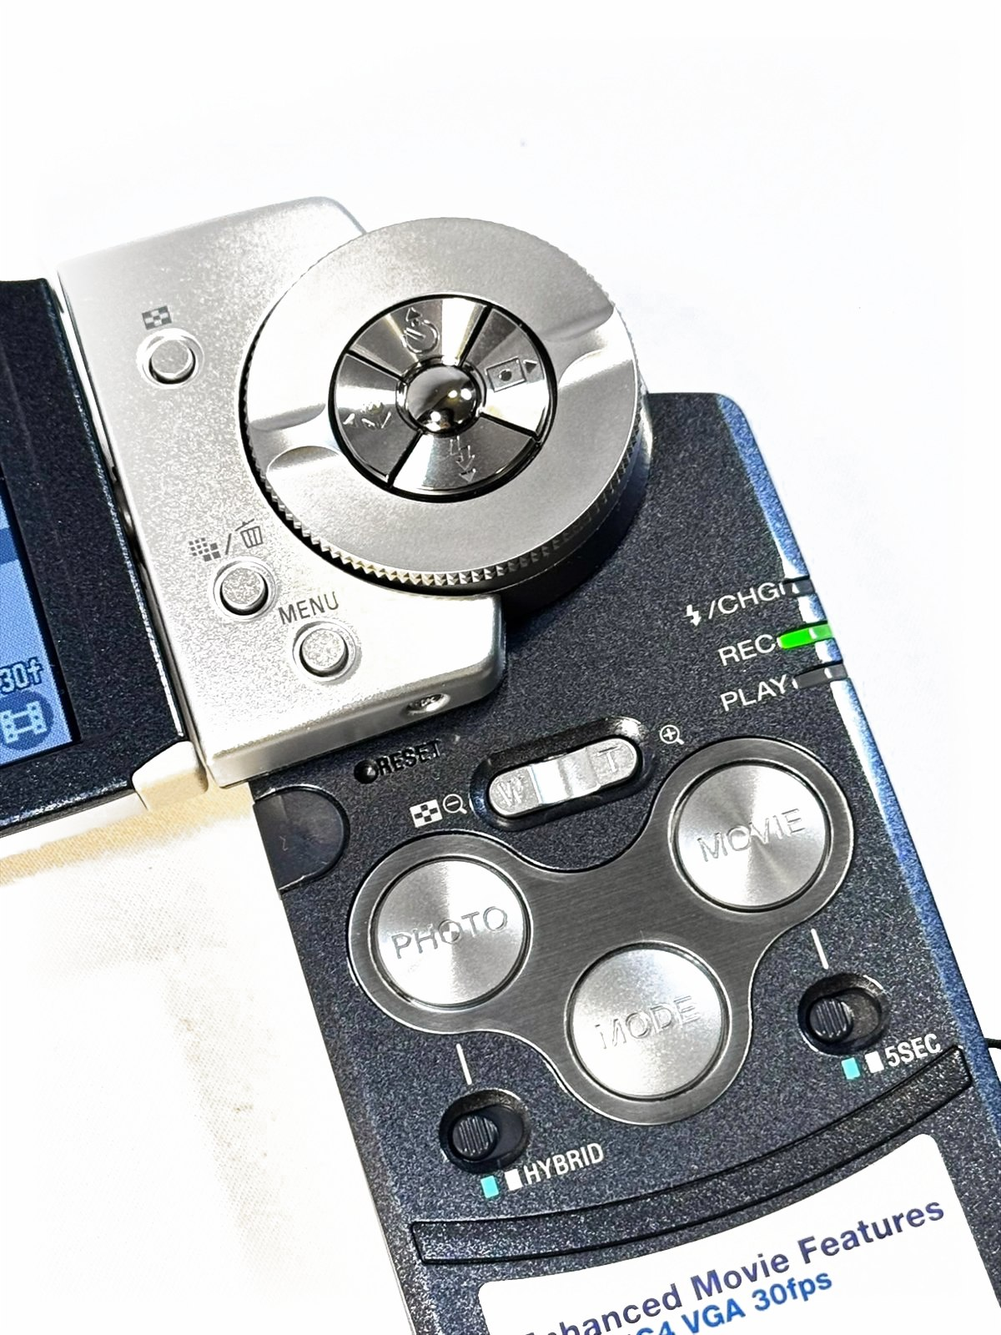
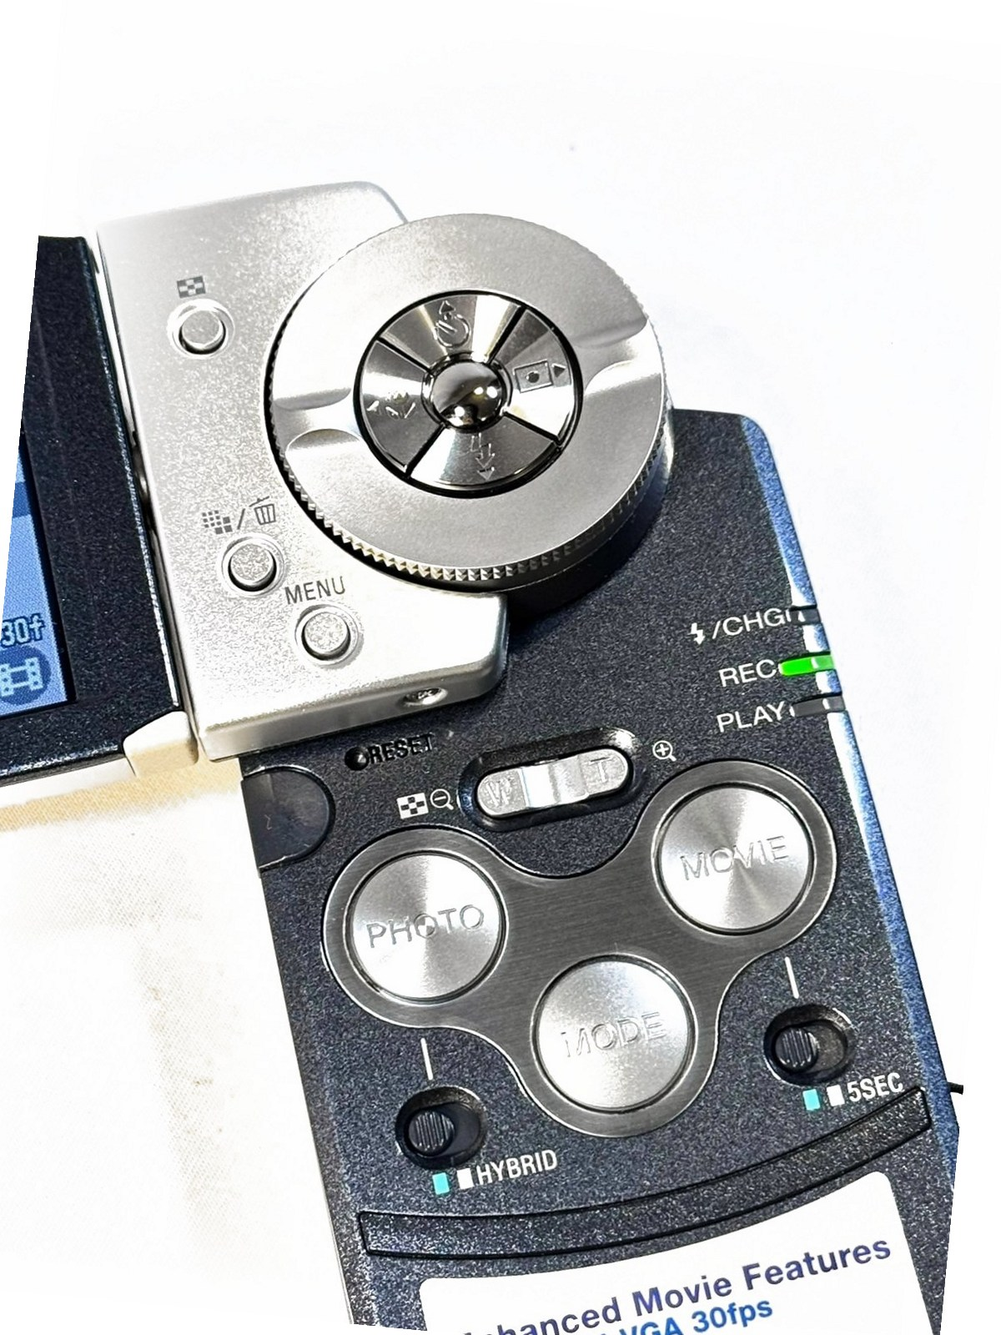
Listing photos: centred card crops, straightened shots, TRV140E sold
- Archive cards use centred card versions (tools/card-crop.ps1) for the two Coolpix, Contax, DSC-M2 (both), Mavica, TRV140E, TRV218E, Walkman, W120 and HC-V110
- Straightened: Contax front, W120 front, HC-V110 lens (also less yellow), all eight sold DSC-M2 photos (tools/deskew.ps1)
- Photo order: Coolpix 2500 like the 3500, Walkman and W120 reordered
- TRV140E marked sold

diff --git a/assets/js/data.js b/assets/js/data.js
@@ -21,8 +21,8 @@
     { id: 'IA-0057', name: 'Sony GV-D900E Video Walkman', brand: 'Sony', type: 'accessories', year: 1997, country: 'Japan', format: 'MiniDV · PAL', sensor: '—', mp: 0, price: 1000, status: 'sold', grade: 'B', added: '2026-11-18',
       links: { ebay: '', vinted: '' },
       art: { kind: 'tape' },
-      photos: { dir: 'assets/img/ia-0057', list: [
-        ['with-charger', 'With its AC-V700 charger', 1600, 1067], ['closed', 'Closed', 1200, 1600], ['screen-playback', 'Playing back a MiniDV tape', 1200, 1600],
+      photos: { dir: 'assets/img/ia-0057', card: [['closed-card', 'Closed', 1000, 1250], ['screen-playback-card', 'Playing back a MiniDV tape', 1000, 1250]], list: [
+        ['closed', 'Closed', 1200, 1600], ['screen-playback', 'Playing back a MiniDV tape', 1200, 1600], ['with-charger', 'With its AC-V700 charger', 1600, 1067],
         ['open', 'Open, screen on', 1600, 1065], ['controls', 'Transport controls', 1600, 1065], ['controls-detail', 'Controls close-up', 1600, 1065],
         ['cassette-bay', 'Cassette bay open', 1600, 1065], ['ports', 'S-Video, AV and LANC ports', 1600, 1065], ['rear', 'Rear, battery bay and DV in / out', 1600, 1065],
         ['side-battery', 'Battery door open', 1600, 1065], ['underside', 'Underside, model plate', 1600, 1065], ['with-charger-on', 'Powered from the charger', 1600, 1065],
@@ -38,10 +38,10 @@
         ['In / out', 'DV in / out · S-Video · AV · LANC · Laser Link'], ['Power', 'InfoLITHIUM L series · DC 7.2 V'], ['Charger', 'Sony AC-V700'], ['Made in', 'Japan']],
       samples: [] },
 
-    { id: 'IA-0056', name: 'Sony Handycam DCR-TRV140E', brand: 'Sony', type: 'camcorders', year: 2002, country: 'Japan', format: 'Digital8 · PAL', sensor: 'CCD', mp: 0.46, price: 149, status: 'available', grade: 'B', added: '2026-11-18',
+    { id: 'IA-0056', name: 'Sony Handycam DCR-TRV140E', brand: 'Sony', type: 'camcorders', year: 2002, country: 'Japan', format: 'Digital8 · PAL', sensor: 'CCD', mp: 0.46, price: 149, status: 'sold', grade: 'B', added: '2026-11-18',
       links: { ebay: '', vinted: '' }, // ← paste this camcorder's eBay / Vinted listing URLs
       art: { kind: 'camcorder', tone: 'silver', fmt: 'D8', zoom: 20, label: 'TRV140E' },
-      photos: { dir: 'assets/img/ia-0056', list: [
+      photos: { dir: 'assets/img/ia-0056', card: [['front-card', 'Front three-quarter', 1000, 1250], ['grip-side-card', 'Grip side and hand strap', 1000, 1250]], list: [
         ['front', 'Front three-quarter', 1200, 1600], ['side-badges', 'Digital8 and Super NightShot badges', 1200, 1600], ['lens', 'Sony video lens 20×, f = 3.6–72 mm 1:1.4', 1200, 1600],
         ['screen-open', 'LCD open, NightShot on', 1200, 1600], ['rear', 'Rear, viewfinder and battery bay', 1200, 1600], ['grip-side', 'Grip side and hand strap', 1200, 1600],
         ['tape-open', 'Tape door open', 1200, 1600], ['viewfinder', 'Through the viewfinder: 279 min, NightShot', 1200, 1600], ['kit', 'With bag, remote, batteries and adapter', 1200, 1600]
@@ -95,7 +95,7 @@
     { id: 'IA-0053', name: 'Sony Mavica MVC-FD81', brand: 'Sony', type: 'compacts', year: 2000, country: 'Japan', format: '3.5" floppy disk', sensor: 'Progressive CCD · 0.8 MP', mp: 0.8, price: 149, status: 'available', grade: 'B', added: '2026-11-18',
       links: { ebay: '', vinted: '' }, // ← paste this camera's eBay / Vinted listing URLs
       art: { kind: 'compact', style: 'grip', tone: 'silver', mp: '0.8', zoom: 3 },
-      photos: { dir: 'assets/img/ia-0053', list: [
+      photos: { dir: 'assets/img/ia-0053', card: [['front-card', 'Front, lens cap off', 1000, 1250], ['front-cap-card', 'Front, cap on, with strap', 1000, 1250]], list: [
         ['front', 'Front, lens cap off', 1200, 1600], ['front-cap', 'Front, cap on, with strap', 1200, 1600], ['back', 'Back, controls', 1200, 1600],
         ['lens-detail', 'Sony video lens 3× detail', 1200, 1600], ['box', 'With its original box and battery', 1200, 1600]
       ] },
@@ -112,7 +112,7 @@
     { id: 'IA-0052', name: 'Sony Handycam CCD-TRV218E', brand: 'Sony', type: 'camcorders', year: 2003, country: 'Japan', format: 'Hi8', sensor: 'CCD', mp: 0.46, price: 129, status: 'available', grade: 'C', added: '2026-11-18',
       links: { ebay: '', vinted: '' }, // ← paste this camcorder's eBay / Vinted listing URLs
       art: { kind: 'camcorder', tone: 'silver', fmt: 'Hi8', zoom: 20, label: 'TRV218E' },
-      photos: { dir: 'assets/img/ia-0052', list: [
+      photos: { dir: 'assets/img/ia-0052', card: [['side-card', 'Side, NightShot and Hi8 badges', 1000, 1250], ['front-card', 'Front, 20× Sony video lens', 1000, 1250]], list: [
         ['side', 'Side, NightShot and Hi8 badges', 1311, 1600], ['front', 'Front, 20× Sony video lens', 1200, 1600], ['grip-side', 'Grip side and power switch', 1200, 1600],
         ['rear', 'Rear, viewfinder and InfoLITHIUM battery', 1200, 1600], ['screen', 'LCD on, with its worn coating', 1200, 1600], ['screen-angle', 'LCD and tape controls', 1200, 1600],
         ['viewfinder', 'Through the viewfinder: Hi8 SP, clear', 1200, 1600], ['with-box', 'With its box, adapter, AV cable and strap', 1200, 1600]
@@ -130,9 +130,9 @@
     { id: 'IA-0051', name: 'Sony Cyber-shot DSC-W120', brand: 'Sony', type: 'compacts', year: 2008, country: 'Japan', format: 'Memory Stick Duo', sensor: 'CCD 1/2.5" · 7.2 MP', mp: 7.2, price: 119, status: 'sold', grade: 'B', added: '2026-11-18',
       links: { ebay: '', vinted: '' }, // ← paste this camera's eBay / Vinted listing URLs
       art: { kind: 'compact', style: 'slim', tone: 'graphite', mp: '7.2', zoom: 4 },
-      photos: { dir: 'assets/img/ia-0051', list: [
-        ['front', 'Front, lens closed', 1200, 1600], ['lens-out', 'Front, lens out', 1200, 1600], ['angle', 'Three-quarter view', 1200, 1600],
-        ['back', 'Back, screen on', 1200, 1600], ['kit', 'With battery and charger', 1200, 1600]
+      photos: { dir: 'assets/img/ia-0051', card: [['lens-out-card', 'Front, lens out', 1000, 1250], ['back-card', 'Back, screen on', 1000, 1250]], list: [
+        ['lens-out', 'Front, lens out', 1200, 1600], ['back', 'Back, screen on', 1200, 1600], ['front', 'Front, lens closed', 1200, 1600],
+        ['angle', 'Three-quarter view', 1200, 1600], ['kit', 'With battery and charger', 1200, 1600]
       ] },
       story: 'The 2008 party camera in black: a 4× Carl Zeiss zoom, Smile Shutter that fires when people grin, and a flash bright enough to flatten a whole room.',
       storySub: 'The W120 is peak late-2000s Cyber-shot: 7.2 megapixels from a CCD, Super SteadyShot, ISO up to 3200 for grainy night shots, and a real optical viewfinder next to the screen. Files are crisp in daylight and turn gloriously noisy indoors.',
@@ -147,7 +147,7 @@
     { id: 'IA-0050', name: 'Sony Cyber-shot DSC-M2', brand: 'Sony', type: 'compacts', year: 2005, country: 'Japan', format: 'Memory Stick PRO Duo', sensor: 'CCD · 5.1 MP', mp: 5.1, price: 300, status: 'available', grade: 'B', added: '2026-11-18',
       links: { ebay: '', vinted: '' }, // ← paste this camera's eBay / Vinted listing URLs
       art: { kind: 'compact', style: 'slim', tone: 'silver', mp: '5.1', zoom: 3 },
-      photos: { dir: 'assets/img/ia-0050', list: [
+      photos: { dir: 'assets/img/ia-0050', card: [['front-card', 'Front, closed', 1000, 1250], ['back-screen-on-card', 'Back, screen on, in the cradle', 1000, 1250]], list: [
         ['front', 'Front, closed', 1200, 1600], ['back-screen-on', 'Back, screen on, in the cradle', 1200, 1600], ['swivel-open', 'Screen swung open', 1200, 1600],
         ['lens-detail', 'Carl Zeiss Vario-Tessar detail', 1200, 1600], ['controls', 'Jog dial and PHOTO / MOVIE buttons', 1200, 1600], ['back-controls', 'Back, controls', 1200, 1600],
         ['side', 'Side, power and DC in', 1200, 1600], ['underside', 'Underside, serial label', 1200, 1600], ['in-cradle', 'In the cradle', 1200, 1600], ['cradle', 'Cradle', 1200, 1600]
@@ -165,9 +165,10 @@
     { id: 'IA-0049', name: 'Nikon Coolpix 2500', brand: 'Nikon', type: 'compacts', year: 2002, country: 'Japan', format: 'CompactFlash', sensor: 'CCD · 2 MP', mp: 2, price: 149, status: 'available', grade: 'A', added: '2026-11-18',
       links: { ebay: '', vinted: '' }, // ← paste this camera's eBay / Vinted listing URLs
       art: { kind: 'compact', style: 'compact', tone: 'blue', mp: '2.0', zoom: 3 },
-      photos: { dir: 'assets/img/ia-0049', list: [
-        ['front', 'Front, lens turned out', 1200, 1600], ['front-vertical', 'Front, upright', 1200, 1600], ['lens-detail', 'Zoom-Nikkor detail', 1200, 1600],
-        ['back-screen-on', 'Back, start-up screen', 1200, 1600], ['back-vertical', 'Back, upright', 1200, 1600], ['box', 'Box and accessories', 1200, 1600]
+      photos: { dir: 'assets/img/ia-0049', card: [['front-vertical-card', 'Front, lens open', 1000, 1250], ['back-vertical-card', 'Upright, lens turned away', 1000, 1250]], list: [
+        // same order as the Coolpix 3500: upright with lens open, upright with lens turned away, back screen on, lens detail, lens swivelled, box
+        ['front-vertical', 'Front, lens open', 1200, 1600], ['back-vertical', 'Upright, lens turned away', 1200, 1600], ['back-screen-on', 'Back, start-up screen', 1200, 1600],
+        ['lens-detail', 'Zoom-Nikkor detail', 1200, 1600], ['front', 'Lens swivelled', 1200, 1600], ['box', 'Box and accessories', 1200, 1600]
       ] },
       story: 'The swivel Coolpix that started it: lens and flash sit in a blue block that turns inside a silver frame. Point it forward, down at the table or back at yourself.',
       storySub: 'Nikon\'s 2002 pocket camera for people who had never owned a digital one: 2 megapixels, a 3× Zoom-Nikkor and twelve scene modes. Closed, the lens hides inside the body, so nothing sticks out. The files are small, soft and very 2002, with that cool Nikon colour.',
@@ -182,7 +183,7 @@
     { id: 'IA-0048', name: 'Panasonic HC-V110', brand: 'Panasonic', type: 'camcorders', year: 2013, country: 'Japan', format: 'SD · AVCHD', sensor: 'MOS 1/5.8"', mp: 1.5, price: 149, status: 'available', grade: 'A', added: '2026-11-17',
       links: { ebay: '', vinted: '' }, // ← paste this camcorder's eBay / Vinted listing URLs
       art: { kind: 'camcorder', tone: 'black', fmt: 'HD', zoom: 38, label: 'HC-V110' },
-      photos: { dir: 'assets/img/ia-0048', list: [
+      photos: { dir: 'assets/img/ia-0048', card: [['side-card', 'Side, lens and badges', 1000, 1250], ['lens-detail-card', 'Lens, f = 2.35–89.3 mm', 1000, 1250]], list: [
         ['side', 'Side, lens and badges', 1200, 1600], ['lens-detail', 'Lens, f = 2.35–89.3 mm', 1200, 1600], ['screen-open', 'Screen open, ports', 1200, 1600],
         ['grip-side', 'Grip side and strap', 1200, 1600], ['rear', 'Rear, battery and REC', 1200, 1600], ['box', 'Box and battery', 1200, 1600]
       ] },
@@ -199,7 +200,7 @@
     { id: 'IA-0047', name: 'Sony Cyber-shot DSC-M2', brand: 'Sony', type: 'compacts', year: 2005, country: 'Japan', format: 'Memory Stick PRO Duo', sensor: 'CCD · 5.1 MP', mp: 5.1, price: 600, status: 'sold', grade: 'A+', added: '2026-11-17',
       links: { ebay: '', vinted: '' }, // ← paste this camera's eBay / Vinted listing URLs
       art: { kind: 'compact', style: 'slim', tone: 'silver', mp: '5.1', zoom: 3 },
-      photos: { dir: 'assets/img/ia-0047', list: [
+      photos: { dir: 'assets/img/ia-0047', card: [['swivel-open-card', 'Screen swung open', 1000, 1250], ['back-screen-on-card', 'Back, screen on', 1000, 1250]], list: [
         ['swivel-open', 'Screen swung open', 1200, 1600], ['back-screen-on', 'Back, screen on', 1200, 1600], ['front-cradle', 'Front, in the cradle', 1200, 1600],
         ['lens-detail', 'Carl Zeiss Vario-Tessar detail', 1200, 1600], ['controls', 'Controls and jog dial', 1200, 1600], ['cradle-front', 'Cradle', 1200, 1600],
         ['cradle-back', 'Cradle ports', 1200, 1600], ['box', 'Box and everything inside', 1200, 1600]
@@ -217,7 +218,7 @@
     { id: 'IA-0046', name: 'Contax i4R', brand: 'Contax', type: 'compacts', year: 2004, country: 'Japan', format: 'SD', sensor: 'CCD 1/2.5" · 4 MP', mp: 4, price: 390, status: 'available', grade: 'B', added: '2026-11-17',
       links: { ebay: '', vinted: '' }, // ← paste this camera's eBay / Vinted listing URLs
       art: { kind: 'compact', style: 'slim', tone: 'silver', mp: '4.0', zoom: 1 },
-      photos: { dir: 'assets/img/ia-0046', list: [
+      photos: { dir: 'assets/img/ia-0046', card: [['front-open-card', 'Front, lens uncovered', 1000, 1250], ['screen-on-card', 'Back, screen on', 1000, 1250]], list: [
         ['front-open', 'Front, lens uncovered', 1200, 1600], ['screen-on', 'Back, screen on', 1200, 1600], ['front-closed', 'Front, flash block closed', 1200, 1600],
         ['back', 'Back, controls', 1200, 1600], ['lens-detail', 'Tessar T* detail', 1200, 1600], ['side', 'Side', 1200, 1600],
         ['underside', 'Underside', 1200, 1600], ['box', 'Box, cradle and accessories', 1242, 1600]
@@ -252,7 +253,7 @@
     { id: 'IA-0044', name: 'Nikon Coolpix 3500', brand: 'Nikon', type: 'compacts', year: 2003, country: 'Japan', format: 'CompactFlash', sensor: 'CCD 1/2.7" · 3.2 MP', mp: 3.2, price: 249, status: 'available', grade: 'A', added: '2026-11-17',
       links: { ebay: '', vinted: '' }, // ← paste this camera's eBay / Vinted listing URLs
       art: { kind: 'compact', style: 'compact', tone: 'silver', mp: '3.2', zoom: 3 },
-      photos: { dir: 'assets/img/ia-0044', list: [
+      photos: { dir: 'assets/img/ia-0044', card: [['front-card', 'Front, lens out', 1000, 1250], ['closed-card', 'Closed', 1000, 1250]], list: [
         ['front', 'Front, lens out', 1200, 1600], ['closed', 'Closed', 1200, 1600], ['back-open', 'Back, screen on', 1200, 1600],
         ['back-closed', 'Back, closed', 1200, 1600], ['lens-detail', 'Zoom-Nikkor detail', 1200, 1600],
         ['side-open', 'Lens swivelled', 1469, 1600], ['screen-on', 'Start-up screen', 1200, 1600],

diff --git a/index.html b/index.html
@@ -10,10 +10,10 @@
 <meta property="og:type" content="website"><meta property="og:title" content="Ionic Archive — Shop our cameras"><meta property="og:description" content="Camcorders and digital cameras from 1990–2012, tested piece by piece. A mystery minifigure in every order."><meta property="og:image" content="https://ionicarchive.com/og.jpg">
 <link rel="preconnect" href="https://fonts.googleapis.com"><link rel="preconnect" href="https://fonts.gstatic.com" crossorigin>
 <link href="https://fonts.googleapis.com/css2?family=Geist:wght@300..700&family=Geist+Mono:wght@400;500&family=VT323&family=Permanent+Marker&display=swap" rel="stylesheet">
-<link rel="stylesheet" href="assets/css/style.css?v=20261121d">
+<link rel="stylesheet" href="assets/css/style.css?v=20261121n">
 <script>document.documentElement.classList.add('js')</script>
 <script type="application/ld+json">{"@context":"https://schema.org","@type":"Organization","name":"Ionic Archive","url":"https://ionicarchive.com","sameAs":["https://www.instagram.com/ionic.archive"]}</script>
-<script defer src="assets/js/data.js?v=20261121d"></script><script defer src="assets/js/art.js?v=20261121d"></script><script defer src="assets/js/main.js?v=20261121d"></script><script defer src="assets/js/home.js?v=20261121d"></script><script defer src="assets/js/tv.js?v=20261121d"></script><script defer src="assets/js/fig3d.js?v=20261121d"></script>
+<script defer src="assets/js/data.js?v=20261121n"></script><script defer src="assets/js/art.js?v=20261121n"></script><script defer src="assets/js/main.js?v=20261121n"></script><script defer src="assets/js/home.js?v=20261121n"></script><script defer src="assets/js/tv.js?v=20261121n"></script><script defer src="assets/js/fig3d.js?v=20261121n"></script>
 </head>
 <body data-page="home">
 <div class="lcd" aria-hidden="true"><i class="lcd__t"></i><i class="lcd__b"></i><i class="lcd__line"></i></div>

diff --git a/dropouts.html b/dropouts.html
@@ -9,9 +9,9 @@
 <link rel="canonical" href="https://ionicarchive.com/dropouts">
 <link rel="preconnect" href="https://fonts.googleapis.com"><link rel="preconnect" href="https://fonts.gstatic.com" crossorigin>
 <link href="https://fonts.googleapis.com/css2?family=Geist:wght@300..700&family=Geist+Mono:wght@400;500&display=swap" rel="stylesheet">
-<link rel="stylesheet" href="assets/css/style.css?v=20261121d">
+<link rel="stylesheet" href="assets/css/style.css?v=20261121n">
 <script>document.documentElement.classList.add('js')</script>
-<script defer src="assets/js/data.js?v=20261121d"></script><script defer src="assets/js/art.js?v=20261121d"></script><script defer src="assets/js/main.js?v=20261121d"></script><script defer src="assets/js/figures.js?v=20261121d"></script><script defer src="assets/js/fig3d.js?v=20261121d"></script>
+<script defer src="assets/js/data.js?v=20261121n"></script><script defer src="assets/js/art.js?v=20261121n"></script><script defer src="assets/js/main.js?v=20261121n"></script><script defer src="assets/js/figures.js?v=20261121n"></script><script defer src="assets/js/fig3d.js?v=20261121n"></script>
 </head>
 <body data-page="dropouts" class="night-hdr" style="background:var(--night)">
 <div class="lcd" aria-hidden="true"><i class="lcd__t"></i><i class="lcd__b"></i><i class="lcd__line"></i></div>

diff --git a/product.html b/product.html
@@ -8,9 +8,9 @@
 <meta name="theme-color" content="#F4F2ED">
 <link rel="preconnect" href="https://fonts.googleapis.com"><link rel="preconnect" href="https://fonts.gstatic.com" crossorigin>
 <link href="https://fonts.googleapis.com/css2?family=Geist:wght@300..700&family=Geist+Mono:wght@400;500&display=swap" rel="stylesheet">
-<link rel="stylesheet" href="assets/css/style.css?v=20261121d">
+<link rel="stylesheet" href="assets/css/style.css?v=20261121n">
 <script>document.documentElement.classList.add('js')</script>
-<script defer src="assets/js/data.js?v=20261121d"></script><script defer src="assets/js/art.js?v=20261121d"></script><script defer src="assets/js/main.js?v=20261121d"></script><script defer src="assets/js/product.js?v=20261121d"></script><script defer src="assets/js/fig3d.js?v=20261121d"></script>
+<script defer src="assets/js/data.js?v=20261121n"></script><script defer src="assets/js/art.js?v=20261121n"></script><script defer src="assets/js/main.js?v=20261121n"></script><script defer src="assets/js/product.js?v=20261121n"></script><script defer src="assets/js/fig3d.js?v=20261121n"></script>
 </head>
 <body data-page="archive">
 <div class="lcd" aria-hidden="true"><i class="lcd__t"></i><i class="lcd__b"></i><i class="lcd__line"></i></div>

diff --git a/journal.html b/journal.html
@@ -8,9 +8,9 @@
 <link rel="canonical" href="https://ionicarchive.com/journal">
 <link rel="preconnect" href="https://fonts.googleapis.com"><link rel="preconnect" href="https://fonts.gstatic.com" crossorigin>
 <link href="https://fonts.googleapis.com/css2?family=Geist:wght@300..700&family=Geist+Mono:wght@400;500&family=Permanent+Marker&display=swap" rel="stylesheet">
-<link rel="stylesheet" href="assets/css/style.css?v=20261121d">
+<link rel="stylesheet" href="assets/css/style.css?v=20261121n">
 <script>document.documentElement.classList.add('js')</script>
-<script defer src="assets/js/data.js?v=20261121d"></script><script defer src="assets/js/art.js?v=20261121d"></script><script defer src="assets/js/main.js?v=20261121d"></script><script defer src="assets/js/journal.js?v=20261121d"></script>
+<script defer src="assets/js/data.js?v=20261121n"></script><script defer src="assets/js/art.js?v=20261121n"></script><script defer src="assets/js/main.js?v=20261121n"></script><script defer src="assets/js/journal.js?v=20261121n"></script>
 </head>
 <body data-page="journal" class="night-hdr jr-page" style="background:var(--night)">
 <div class="lcd" aria-hidden="true"><i class="lcd__t"></i><i class="lcd__b"></i><i class="lcd__line"></i></div>

diff --git a/manifesto.html b/manifesto.html
@@ -9,9 +9,9 @@
 <link rel="canonical" href="https://ionicarchive.com/manifesto">
 <link rel="preconnect" href="https://fonts.googleapis.com"><link rel="preconnect" href="https://fonts.gstatic.com" crossorigin>
 <link href="https://fonts.googleapis.com/css2?family=Geist:wght@300..700&family=Geist+Mono:wght@400;500&display=swap" rel="stylesheet">
-<link rel="stylesheet" href="assets/css/style.css?v=20261121d">
+<link rel="stylesheet" href="assets/css/style.css?v=20261121n">
 <script>document.documentElement.classList.add('js')</script>
-<script defer src="assets/js/data.js?v=20261121d"></script><script defer src="assets/js/art.js?v=20261121d"></script><script defer src="assets/js/main.js?v=20261121d"></script><script defer src="assets/js/manifesto.js?v=20261121d"></script>
+<script defer src="assets/js/data.js?v=20261121n"></script><script defer src="assets/js/art.js?v=20261121n"></script><script defer src="assets/js/main.js?v=20261121n"></script><script defer src="assets/js/manifesto.js?v=20261121n"></script>
 </head>
 <body data-page="manifesto" class="night-hdr" style="background:var(--night)">
 <div class="lcd" aria-hidden="true"><i class="lcd__t"></i><i class="lcd__b"></i><i class="lcd__line"></i></div>

diff --git a/archive.html b/archive.html
@@ -9,9 +9,9 @@
 <link rel="canonical" href="https://ionicarchive.com/archive">
 <link rel="preconnect" href="https://fonts.googleapis.com"><link rel="preconnect" href="https://fonts.gstatic.com" crossorigin>
 <link href="https://fonts.googleapis.com/css2?family=Geist:wght@300..700&family=Geist+Mono:wght@400;500&display=swap" rel="stylesheet">
-<link rel="stylesheet" href="assets/css/style.css?v=20261121d">
+<link rel="stylesheet" href="assets/css/style.css?v=20261121n">
 <script>document.documentElement.classList.add('js')</script>
-<script defer src="assets/js/data.js?v=20261121d"></script><script defer src="assets/js/art.js?v=20261121d"></script><script defer src="assets/js/main.js?v=20261121d"></script><script defer src="assets/js/archive.js?v=20261121d"></script>
+<script defer src="assets/js/data.js?v=20261121n"></script><script defer src="assets/js/art.js?v=20261121n"></script><script defer src="assets/js/main.js?v=20261121n"></script><script defer src="assets/js/archive.js?v=20261121n"></script>
 </head>
 <body data-page="archive">
 <div class="lcd" aria-hidden="true"><i class="lcd__t"></i><i class="lcd__b"></i><i class="lcd__line"></i></div>

diff --git a/support.html b/support.html
@@ -8,9 +8,9 @@
 <link rel="canonical" href="https://ionicarchive.com/support">
 <link rel="preconnect" href="https://fonts.googleapis.com"><link rel="preconnect" href="https://fonts.gstatic.com" crossorigin>
 <link href="https://fonts.googleapis.com/css2?family=Geist:wght@300..700&family=Geist+Mono:wght@400;500&display=swap" rel="stylesheet">
-<link rel="stylesheet" href="assets/css/style.css?v=20261121d">
+<link rel="stylesheet" href="assets/css/style.css?v=20261121n">
 <script>document.documentElement.classList.add('js')</script>
-<script defer src="assets/js/data.js?v=20261121d"></script><script defer src="assets/js/art.js?v=20261121d"></script><script defer src="assets/js/main.js?v=20261121d"></script>
+<script defer src="assets/js/data.js?v=20261121n"></script><script defer src="assets/js/art.js?v=20261121n"></script><script defer src="assets/js/main.js?v=20261121n"></script>
 </head>
 <body data-page="support">
 <div class="lcd" aria-hidden="true"><i class="lcd__t"></i><i class="lcd__b"></i><i class="lcd__line"></i></div>

diff --git a/legal.html b/legal.html
@@ -8,9 +8,9 @@
 <link rel="canonical" href="https://ionicarchive.com/legal">
 <link rel="preconnect" href="https://fonts.googleapis.com"><link rel="preconnect" href="https://fonts.gstatic.com" crossorigin>
 <link href="https://fonts.googleapis.com/css2?family=Geist:wght@300..700&family=Geist+Mono:wght@400;500&display=swap" rel="stylesheet">
-<link rel="stylesheet" href="assets/css/style.css?v=20261121d">
+<link rel="stylesheet" href="assets/css/style.css?v=20261121n">
 <script>document.documentElement.classList.add('js')</script>
-<script defer src="assets/js/data.js?v=20261121d"></script><script defer src="assets/js/art.js?v=20261121d"></script><script defer src="assets/js/main.js?v=20261121d"></script>
+<script defer src="assets/js/data.js?v=20261121n"></script><script defer src="assets/js/art.js?v=20261121n"></script><script defer src="assets/js/main.js?v=20261121n"></script>
 </head>
 <body data-page="support">
 <div class="lcd" aria-hidden="true"><i class="lcd__t"></i><i class="lcd__b"></i><i class="lcd__line"></i></div>

diff --git a/assets/js/main.js b/assets/js/main.js
@@ -23,10 +23,12 @@
   /* Real product photo on its own white studio background */
   function photo(p, i, opts) {
     opts = opts || {};
-    const [f, label, w, h] = p.photos.list[i];
+    const L = (opts.card && p.photos.card) || p.photos.list;
+    const [f, label, w, h] = L[i] || p.photos.list[i];
     return `<img class="ph" src="${p.photos.dir}/${f}.jpg" width="${w}" height="${h}" alt="${opts.alt === '' ? '' : `${p.name}, ${label.toLowerCase()}`}" ${opts.eager ? 'fetchpriority="high"' : 'loading="lazy"'} decoding="async">`;
   }
-  const view = (p, v) => (p.photos ? photo(p, v === 'a' ? 0 : 1, { alt: v === 'a' ? undefined : '' }) : A.product(p, v));
+  // cards use the centred card crops when a piece has them (photos.card), otherwise its first two photos
+  const view = (p, v) => (p.photos ? photo(p, v === 'a' ? 0 : 1, { alt: v === 'a' ? undefined : '', card: true }) : A.product(p, v));
 
   function card(p) {
     const sold = p.status === 'sold';
